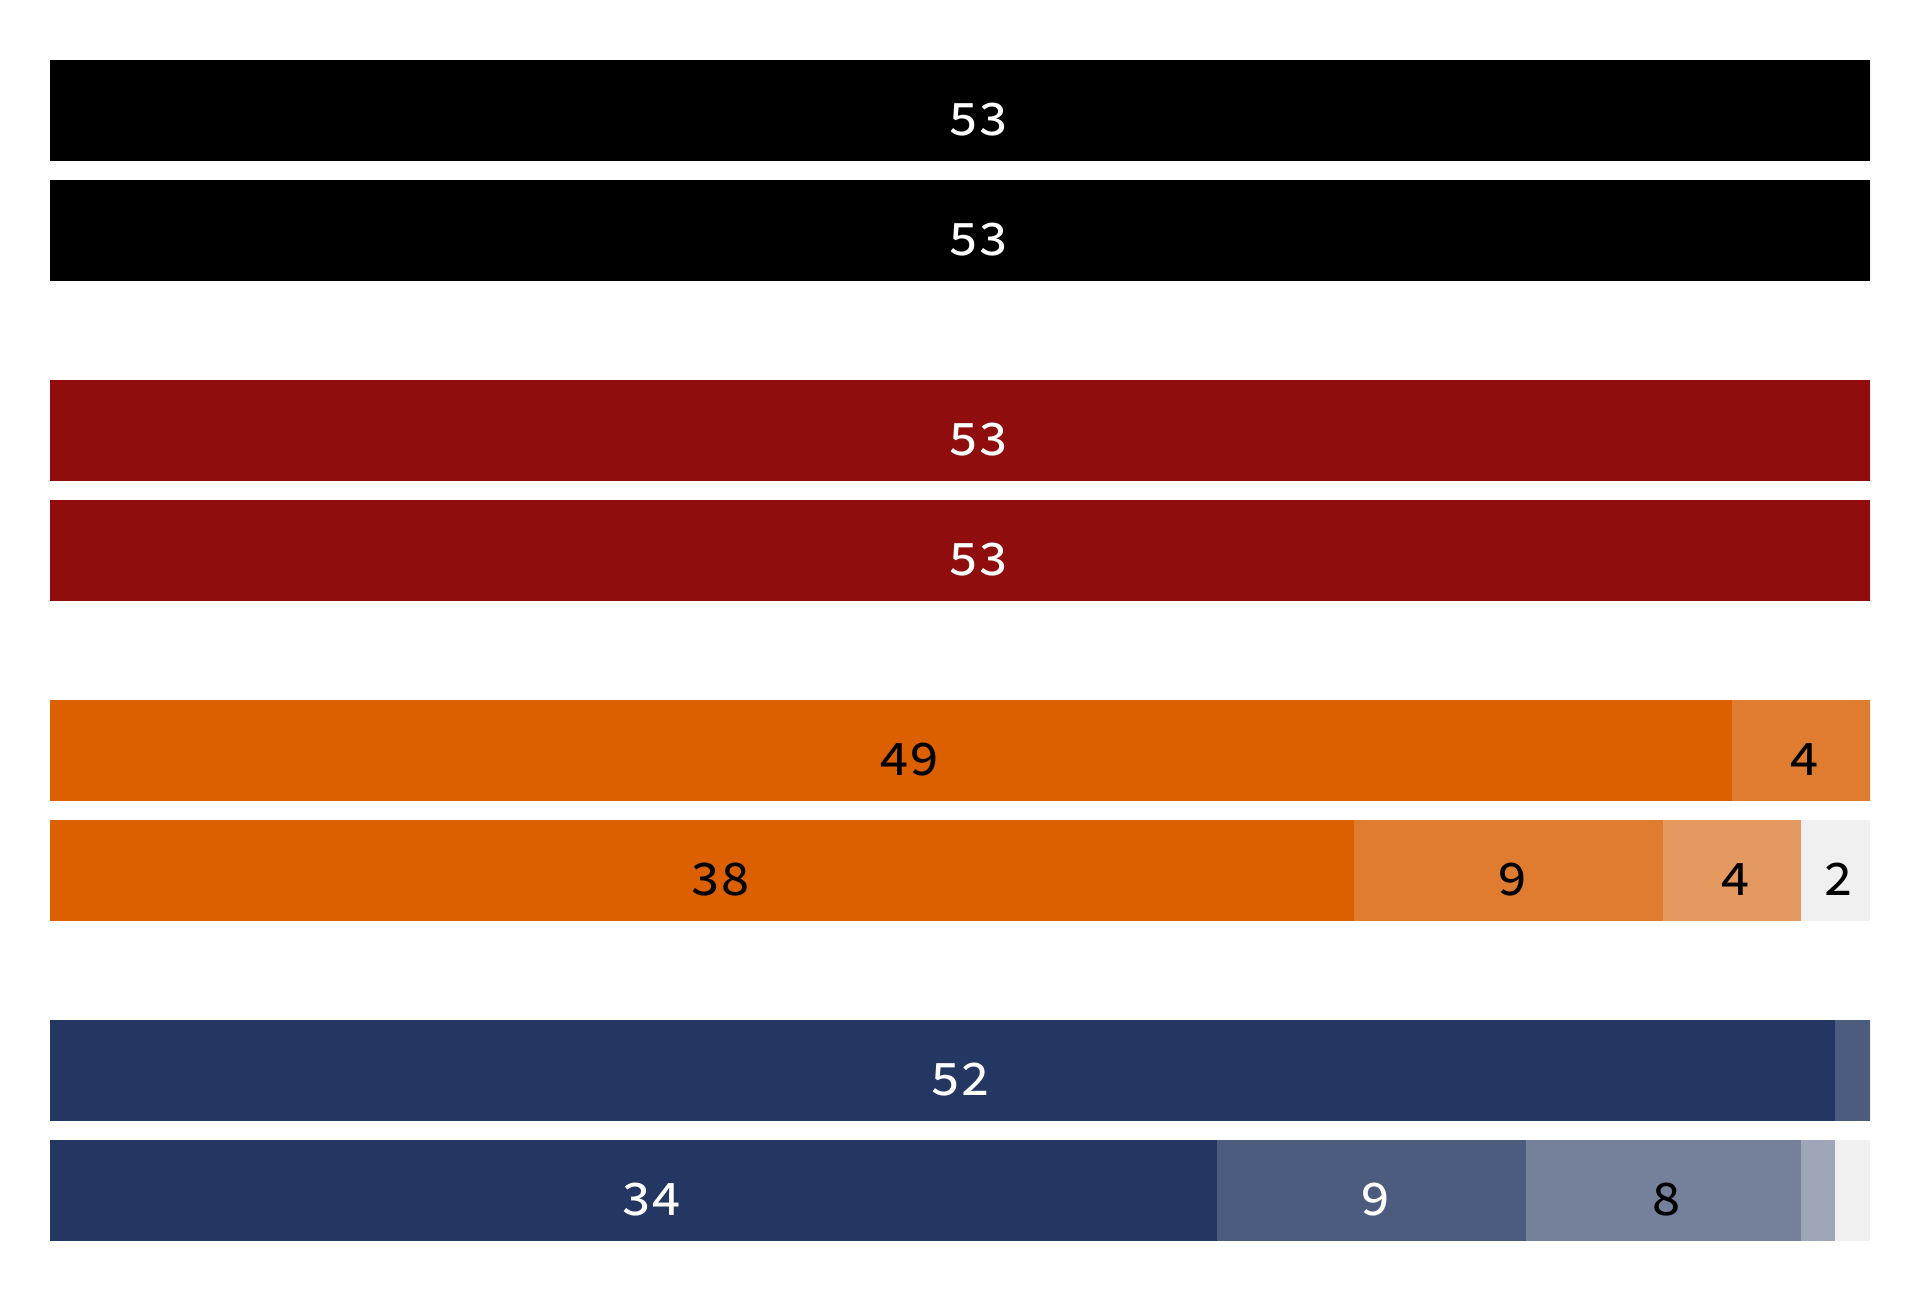
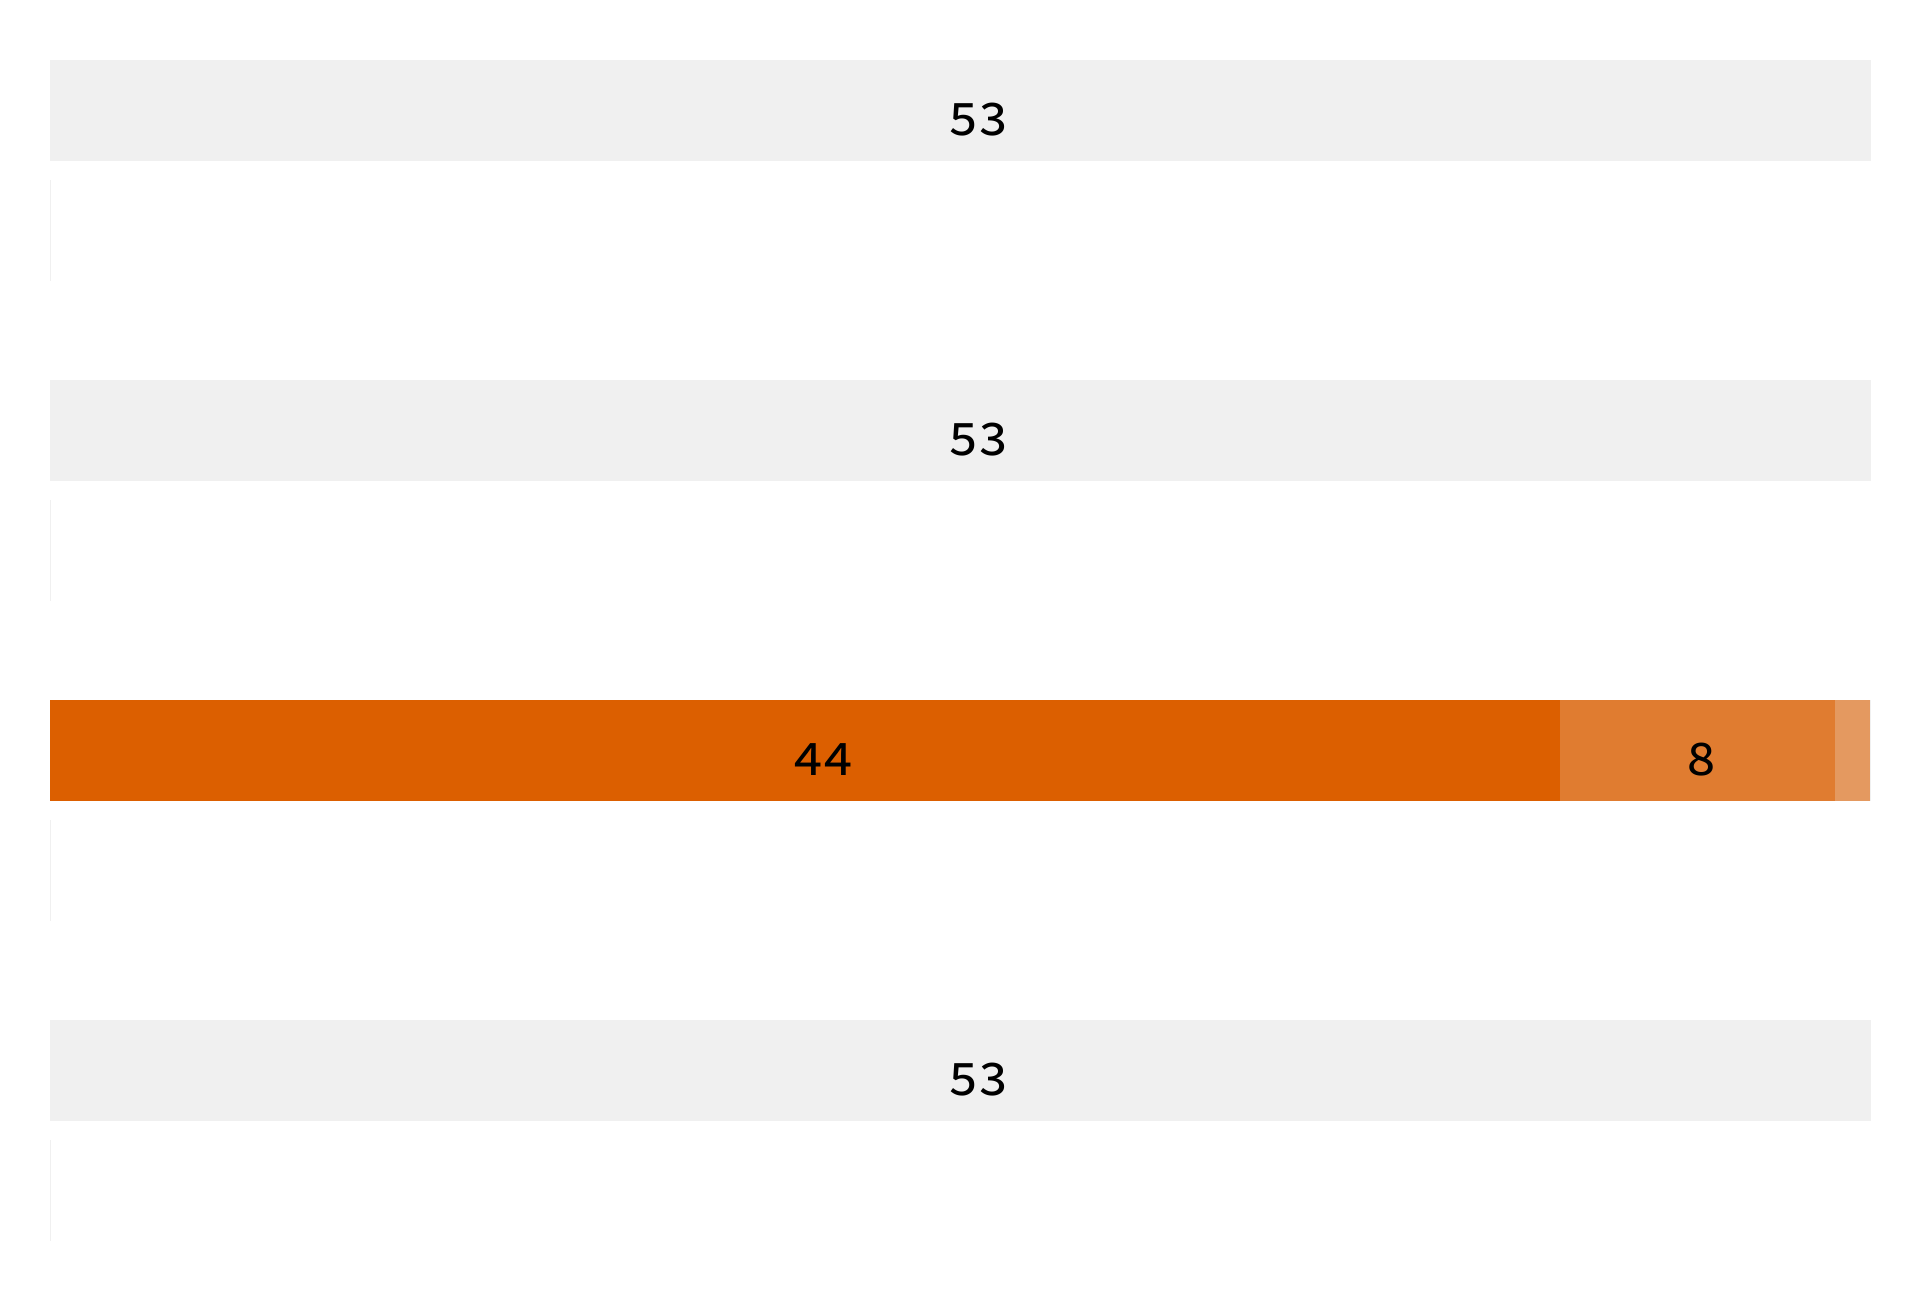
new figs

diff --git a/experiments/coq-experiments/proplang/FuzzerChecker/Analysis.py b/experiments/coq-experiments/proplang/FuzzerChecker/Analysis.py
@@ -7,12 +7,20 @@ def df_insert(df: pd.DataFrame, column: str, value: any) -> pd.DataFrame:
     df.insert(len(df.columns), column, value)
     return df
 
+def name_to_version(name: str) -> str:
+    subparts = name.split(',')
+    if len(subparts) >= 5:
+        return ",".join(subparts[4:])
+    return "FIFOSeedPool,| (a, f) => FIFOQueue.push (mkSeed a f 10) pool.json"
+
 def parse_results(results: str) -> pd.DataFrame:
     entries = scandir_filter(results, os.path.isfile)
     entries = [e for e in entries if e.path.endswith('.json')]
 
-    df = pd.concat([df_insert(pd.read_json(e.path, orient='records', typ='frame'), "version", e.name.split(',')[4] if len(e.name.split(',')) >= 5 else "HeapSeedPool") for e in entries])
 
+    # df = pd.concat([df_insert(pd.read_json(e.path, orient='records', typ='frame'), "version", e.name.split(',')[4] if len(e.name.split(',')) >= 5 else "HeapSeedPool") for e in entries])
+    df = pd.concat([df_insert(pd.read_json(e.path, orient='records', typ='frame'), "version", name_to_version(e.name)) for e in entries])
+    print(df)
     df['inputs'] = df.apply(lambda x: x['passed'] + (1 if x['foundbug'] else 0), axis=1)
     df = df.drop(['passed'], axis=1)
 
@@ -84,6 +92,7 @@ def stacked_barchart_times(
 
     for within in limits:
         dft = overall_solved(df, agg=agg, within=within, solved_type=limit_type)
+        pd.set_option('display.max_colwidth', None)
         print(dft)
         dft = dft.reset_index()
         dft = dft.groupby(['strategy']).sum(numeric_only=False)
@@ -103,6 +112,36 @@ def stacked_barchart_times(
     if not colors:
         colors = [
             '#000000',  # black
+            '#900D0D',  # red
+            '#DC5F00',  # orange
+            '#243763',  # blue
+            '#436E4F',  # green
+            '#470938',  # purple
+            '#D61C4E',  # pink
+            '#334756',  # dark blue
+            '#290001',  # dark brown
+            '#000000',  # black
+                        '#000000',  # black
+            '#900D0D',  # red
+            '#DC5F00',  # orange
+            '#243763',  # blue
+            '#436E4F',  # green
+            '#470938',  # purple
+            '#D61C4E',  # pink
+            '#334756',  # dark blue
+            '#290001',  # dark brown
+            '#000000',  # black
+                        '#000000',  # black
+            '#900D0D',  # red
+            '#DC5F00',  # orange
+            '#243763',  # blue
+            '#436E4F',  # green
+            '#470938',  # purple
+            '#D61C4E',  # pink
+            '#334756',  # dark blue
+            '#290001',  # dark brown
+            '#000000',  # black
+                        '#000000',  # black
             '#900D0D',  # red
             '#DC5F00',  # orange
             '#243763',  # blue
@@ -139,7 +178,9 @@ def stacked_barchart_times(
     strategies = sorted(strategies,
                         key=lambda x: strategy_sorter[x] if x in strategy_sorter.keys() else -1)
 
+    print(len(strategies))
     for strategy, color in zip(strategies[::-1], extrapolated_colors):
+        print(strategy)
         fig.add_trace(
             go.Bar(
                 x=results[results['strategy'] == strategy]['value'],
@@ -216,11 +257,12 @@ def analyze(results: str, images: str):
             strategies=[
                 'VariationalMutatingGenerator',
             ],
-            colors=['#000000', '#900D0D', '#DC5F00', '#243763', '#FFD700'],
+            # colors=['#000000', '#900D0D', '#DC5F00', '#243763', '#FFD700'],
             limits=[0.1, 1, 10, 60],
             limit_type='time',
             image_path=images,
             show=False,
+            agg='any',
         )
 
 if __name__ == "__main__":

diff --git a/experiments/coq-experiments/proplang/ShallowVsDeep/Collect.py b/experiments/coq-experiments/proplang/ShallowVsDeep/Collect.py
@@ -10,11 +10,11 @@ def collect(results: str):
     tool = Coq(results=results, replace_level=ReplaceLevel.REPLACE, log_level=LogLevel.DEBUG)
     for workload in tool.all_workloads():
         if workload.name not in [
-                                'BST',
+                                # 'BST',
                                 'BSTProplang', 
-                                 'RBT', 
+                                #  'RBT', 
                                  'RBTProplang',
-                                 'STLC',
+                                #  'STLC',
                                  'STLCProplang'
                                  ]:
             continue
@@ -29,6 +29,10 @@ def collect(results: str):
             run_trial = None
 
             for strategy in tool.all_strategies(workload):
+                print(f'Processing {workload.name},{strategy.name},{variant.name}')
+                if strategy.name != "TypeBasedFuzzer":
+                    continue
+                # print(f'Processing {workload.name},{strategy.name},{variant.name}')
                 for property in tool.all_properties(workload):
 
                     property = 'test_' + property

diff --git a/experiments/coq-experiments/proplang/FuzzerChecker/Analysis2.py b/experiments/coq-experiments/proplang/FuzzerChecker/Analysis2.py
@@ -162,6 +162,7 @@ def process_data(results: str, figures: str):
         strategies=[
             "TypeBasedFuzzer",
         ],
+        agg="any",
     )
     bst = charter(case="BST")
     rbt = charter(case="RBT")
